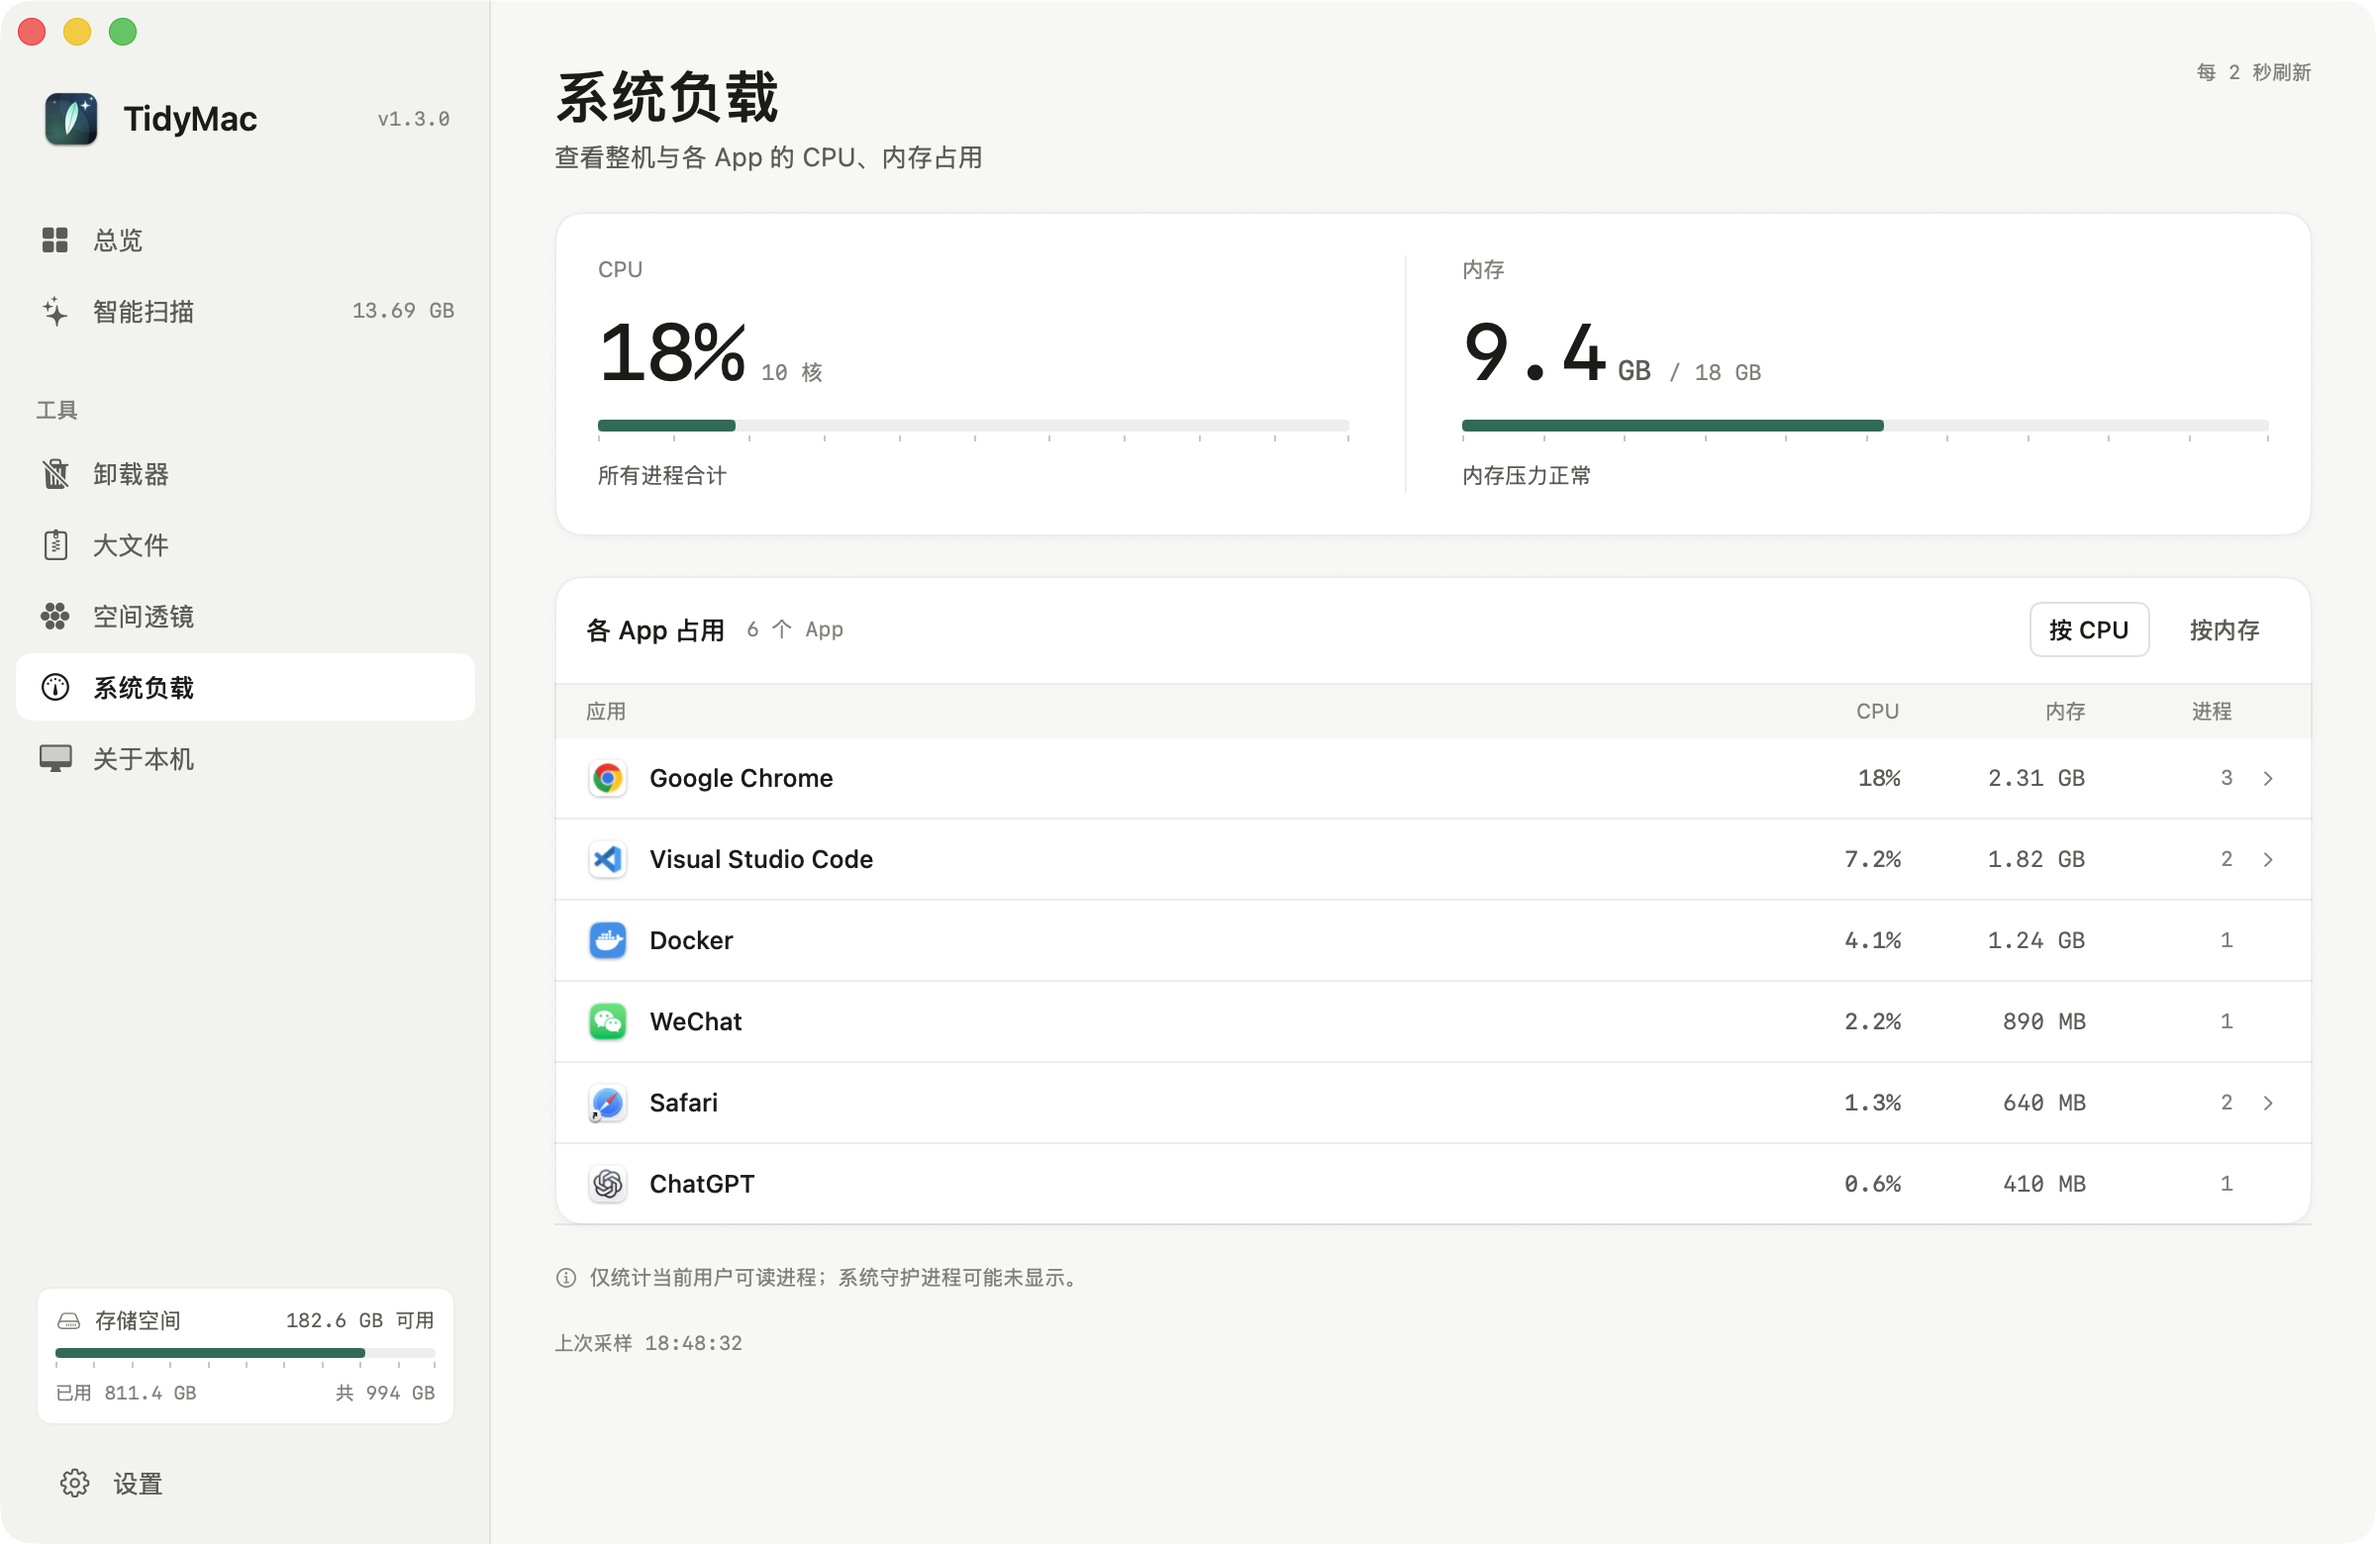
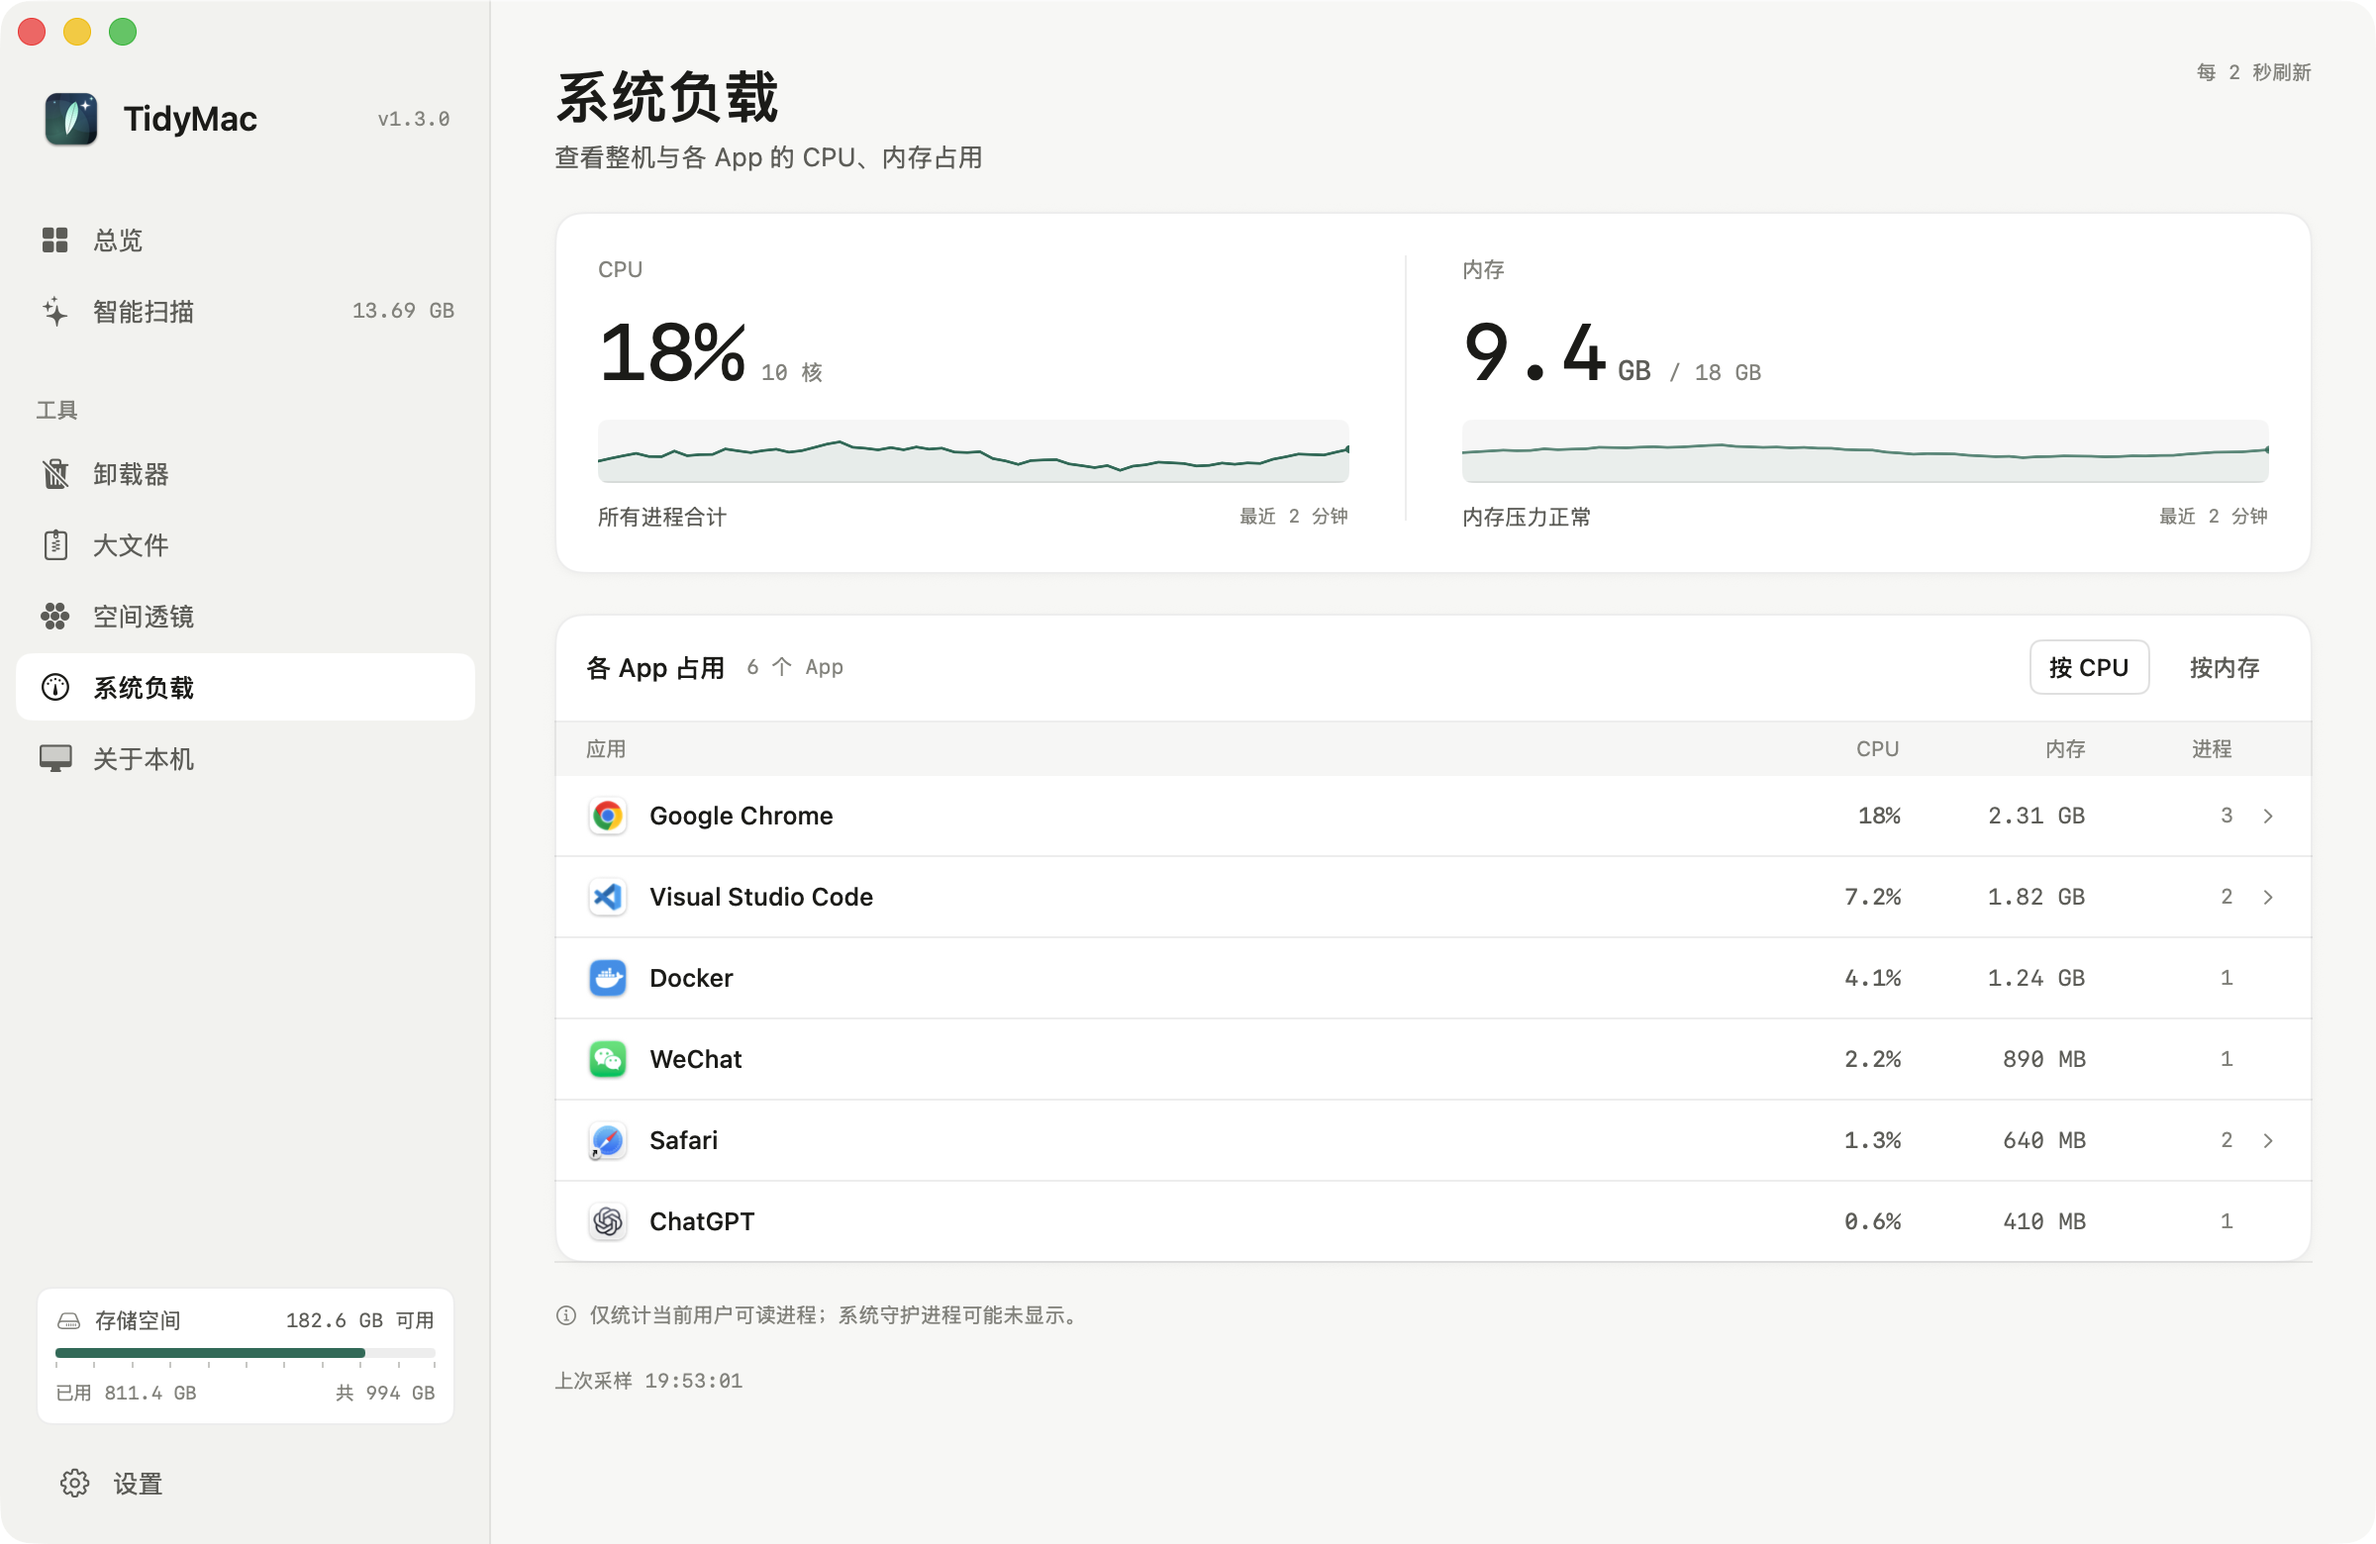
feat(ui): show two-minute CPU and memory trends on System Load

diff --git a/Sources/UI/SystemLoadPage.swift b/Sources/UI/SystemLoadPage.swift
@@ -75,7 +75,7 @@ struct SystemLoadPage: View {
 
             Rectangle()
                 .fill(Theme.stroke)
-                .frame(width: 1, height: 120)
+                .frame(width: 1, height: 134)
                 .padding(.trailing, 28)
 
             memoryColumn
@@ -99,12 +99,19 @@ struct SystemLoadPage: View {
                     .foregroundStyle(Theme.textTertiary)
             }
 
-            CapacityRuler(fraction: monitor.snapshot?.cpuFraction ?? 0, height: 6)
+            LoadTrendChart(values: cpuHistory, color: Theme.accent, minimumSpan: 0.06)
+                .frame(height: 32)
                 .padding(.top, 2)
 
-            Text(L("所有进程合计"))
-                .font(.system(size: 11))
-                .foregroundStyle(Theme.textSecondary)
+            HStack(spacing: 8) {
+                Text(L("所有进程合计"))
+                    .font(.system(size: 11))
+                    .foregroundStyle(Theme.textSecondary)
+                Spacer(minLength: 8)
+                Text(trendWindowLabel(monitor.cpuHistory.count))
+                    .font(Theme.monoFont(9.5))
+                    .foregroundStyle(Theme.textTertiary)
+            }
         }
     }
 
@@ -132,7 +139,8 @@ struct SystemLoadPage: View {
                 }
             }
 
-            CapacityRuler(fraction: memoryFraction, height: 6)
+            LoadTrendChart(values: memoryHistory, color: Theme.accent.opacity(0.78), minimumSpan: 0.025)
+                .frame(height: 32)
                 .padding(.top, 2)
 
             HStack(spacing: 10) {
@@ -144,8 +152,30 @@ struct SystemLoadPage: View {
                         .font(Theme.monoFont(10.5))
                         .foregroundStyle(Theme.textTertiary)
                 }
+                Spacer(minLength: 8)
+                Text(trendWindowLabel(monitor.memoryHistory.count))
+                    .font(Theme.monoFont(9.5))
+                    .foregroundStyle(Theme.textTertiary)
             }
         }
+    }
+
+    private var cpuHistory: [Double] {
+        trend(monitor.cpuHistory, current: monitor.snapshot?.cpuFraction ?? 0)
+    }
+
+    private var memoryHistory: [Double] {
+        trend(monitor.memoryHistory, current: memoryFraction)
+    }
+
+    private func trend(_ history: [Double], current: Double) -> [Double] {
+        history.count > 1 ? history : [current, current]
+    }
+
+    /// Until the two-minute window fills, name the window we actually have.
+    private func trendWindowLabel(_ count: Int) -> String {
+        guard count < 60 else { return L("最近 2 分钟") }
+        return L("最近 %d 秒", max(count * 2, 2))
     }
 
     private var memoryFraction: Double {
@@ -450,5 +480,83 @@ private enum AppIconStore {
         let image = NSWorkspace.shared.icon(forFile: path)
         cache[path] = image
         return image
+    }
+}
+
+/// A quiet two-minute sparkline: a hairline trend and a barely-there area wash
+/// on a neutral strip. No axes, no glow — the big figure next to it carries the value.
+private struct LoadTrendChart: View {
+    let values: [Double]
+    let color: Color
+    var minimumSpan: Double = 0.06
+
+    var body: some View {
+        Canvas { context, size in
+            let points = normalizedPoints(in: size)
+            guard points.count > 1 else { return }
+
+            guard let first = points.first, let lastX = points.last?.x else { return }
+
+            var area = Path()
+            area.move(to: CGPoint(x: first.x, y: size.height))
+            for point in points {
+                area.addLine(to: point)
+            }
+            area.addLine(to: CGPoint(x: lastX, y: size.height))
+            area.closeSubpath()
+            context.fill(area, with: .color(color.opacity(0.08)))
+
+            var line = Path()
+            line.addLines(points)
+            context.stroke(
+                line,
+                with: .color(color),
+                style: StrokeStyle(lineWidth: 1.4, lineCap: .round, lineJoin: .round)
+            )
+
+            if let last = points.last {
+                let radius: CGFloat = 2
+                context.fill(
+                    Path(ellipseIn: CGRect(
+                        x: last.x - radius,
+                        y: last.y - radius,
+                        width: radius * 2,
+                        height: radius * 2
+                    )),
+                    with: .color(color)
+                )
+            }
+        }
+        .background(RoundedRectangle(cornerRadius: 5).fill(Theme.subtleFill))
+        .overlay(alignment: .bottom) {
+            Rectangle()
+                .fill(Theme.stroke)
+                .frame(height: 1)
+        }
+        .clipShape(RoundedRectangle(cornerRadius: 5))
+        .accessibilityHidden(true)
+    }
+
+    private func normalizedPoints(in size: CGSize) -> [CGPoint] {
+        let samples = values.isEmpty ? [0] : values
+        guard size.width > 0, !samples.isEmpty else { return [] }
+
+        let lower = (samples.min() ?? 0) - 0.012
+        let upper = (samples.max() ?? 1) + 0.012
+        let span = max(upper - lower, minimumSpan)
+
+        func y(for value: Double) -> CGFloat {
+            let fraction = CGFloat((value - lower) / span)
+            return min(max(size.height - fraction * size.height, 1), size.height - 1)
+        }
+
+        guard samples.count > 1 else {
+            return [CGPoint(x: size.width, y: y(for: samples[0]))]
+        }
+
+        let step = size.width / CGFloat(max(samples.count - 1, 1))
+        return samples.enumerated().map { index, value in
+            CGPoint(x: CGFloat(index) * step, y: y(for: value))
+        }
     }
 }

diff --git a/Sources/Core/SystemMetrics.swift b/Sources/Core/SystemMetrics.swift
@@ -55,6 +55,11 @@ struct SystemLoadSnapshot: Equatable, Sendable {
 final class SystemLoadMonitor: ObservableObject {
     @Published private(set) var snapshot: SystemLoadSnapshot?
     @Published private(set) var isSampling = false
+    @Published private(set) var cpuHistory: [Double] = []
+    @Published private(set) var memoryHistory: [Double] = []
+
+    /// 2s cadence × 60 samples = a two-minute trend.
+    private let historyCapacity = 60
 
     private let queue = DispatchQueue(label: "com.tidymac.systemload", qos: .utility)
     private var timer: DispatchSourceTimer?
@@ -89,6 +94,16 @@ final class SystemLoadMonitor: ObservableObject {
                 let demo = self.makeDemoSnapshot()
                 DispatchQueue.main.async {
                     self.snapshot = demo
+                    self.cpuHistory = Self.demoHistory(
+                        base: demo.cpuFraction,
+                        amplitude: 0.022,
+                        noiseScale: 0.65
+                    )
+                    self.memoryHistory = Self.demoHistory(
+                        base: Double(demo.memoryUsedBytes) / Double(max(demo.memoryTotalBytes, 1)),
+                        amplitude: 0.007,
+                        noiseScale: 0.25
+                    )
                     self.isSampling = true
                 }
                 return
@@ -101,7 +116,11 @@ final class SystemLoadMonitor: ObservableObject {
             }
             self.timer = timer
             timer.resume()
-            DispatchQueue.main.async { self.isSampling = true }
+            DispatchQueue.main.async {
+                self.cpuHistory = []
+                self.memoryHistory = []
+                self.isSampling = true
+            }
         }
     }
 
@@ -153,8 +172,42 @@ final class SystemLoadMonitor: ObservableObject {
             sampledAt: Date()
         )
 
+        let memoryFraction = snapshot.memoryTotalBytes > 0
+            ? Double(snapshot.memoryUsedBytes) / Double(snapshot.memoryTotalBytes)
+            : 0
+
         DispatchQueue.main.async { [weak self] in
-            self?.snapshot = snapshot
+            guard let self else { return }
+            self.snapshot = snapshot
+            self.appendHistory(cpu: snapshot.cpuFraction, memory: memoryFraction)
+        }
+    }
+
+    private func appendHistory(cpu: Double, memory: Double) {
+        cpuHistory.append(min(max(cpu, 0), 1))
+        if cpuHistory.count > historyCapacity {
+            cpuHistory.removeFirst(cpuHistory.count - historyCapacity)
+        }
+        memoryHistory.append(min(max(memory, 0), 1))
+        if memoryHistory.count > historyCapacity {
+            memoryHistory.removeFirst(memoryHistory.count - historyCapacity)
+        }
+    }
+
+    private static func demoHistory(
+        base: Double,
+        amplitude: Double,
+        noiseScale: Double
+    ) -> [Double] {
+        var seed: UInt64 = 0x9E37_79B9_7F4A_7C15
+        var value = base
+        return (0..<60).map { index in
+            seed = seed &* 6_364_136_223_846_793_005 &+ 1_442_695_040_888_963_407
+            let noise = (Double((seed >> 33) & 0x7FFF_FFFF) / Double(0x7FFF_FFFF) * 2 - 1)
+            let drift = sin(Double(index) * 0.11) * amplitude * 0.35
+            let target = base + drift + noise * amplitude * noiseScale
+            value = value * 0.68 + target * 0.32
+            return min(max(value, 0.01), 0.99)
         }
     }
 

diff --git a/README.md b/README.md
@@ -42,7 +42,7 @@ Also available as a [DMG disk image](https://github.com/welefen/TidyMac/raw/main
 - Re-analyze any folder you choose
 
 ### System Load
-- Live CPU and memory overview: overall usage, core count, memory pressure and swap
+- Live CPU and memory overview: current usage, last-2-minute trend, memory pressure and swap
 - Per-app CPU and memory, aggregated across helper processes, with expandable process details
 - Two-second refresh; only processes readable by the current user are counted
 - Row order stays fixed while the pointer is over the list, so the end-app button keeps its place

diff --git a/README.zh-CN.md b/README.zh-CN.md
@@ -42,7 +42,7 @@ TidyMac 是一个原生 SwiftUI macOS 应用：扫描系统缓存与开发者垃
 - 支持选择任意目录重新分析
 
 ### 系统负载
-- 整机 CPU 与内存总览：使用率、核心数、内存压力与交换空间
+- 整机 CPU 与内存总览：使用率、最近 2 分钟趋势、内存压力与交换空间
 - 按 App 汇总 CPU 与内存占用，并展开查看各子进程明细
 - 每 2 秒刷新；仅统计当前用户可读取的进程
 - 鼠标停留在应用列表时行序保持稳定，结束按钮不会中途移位
